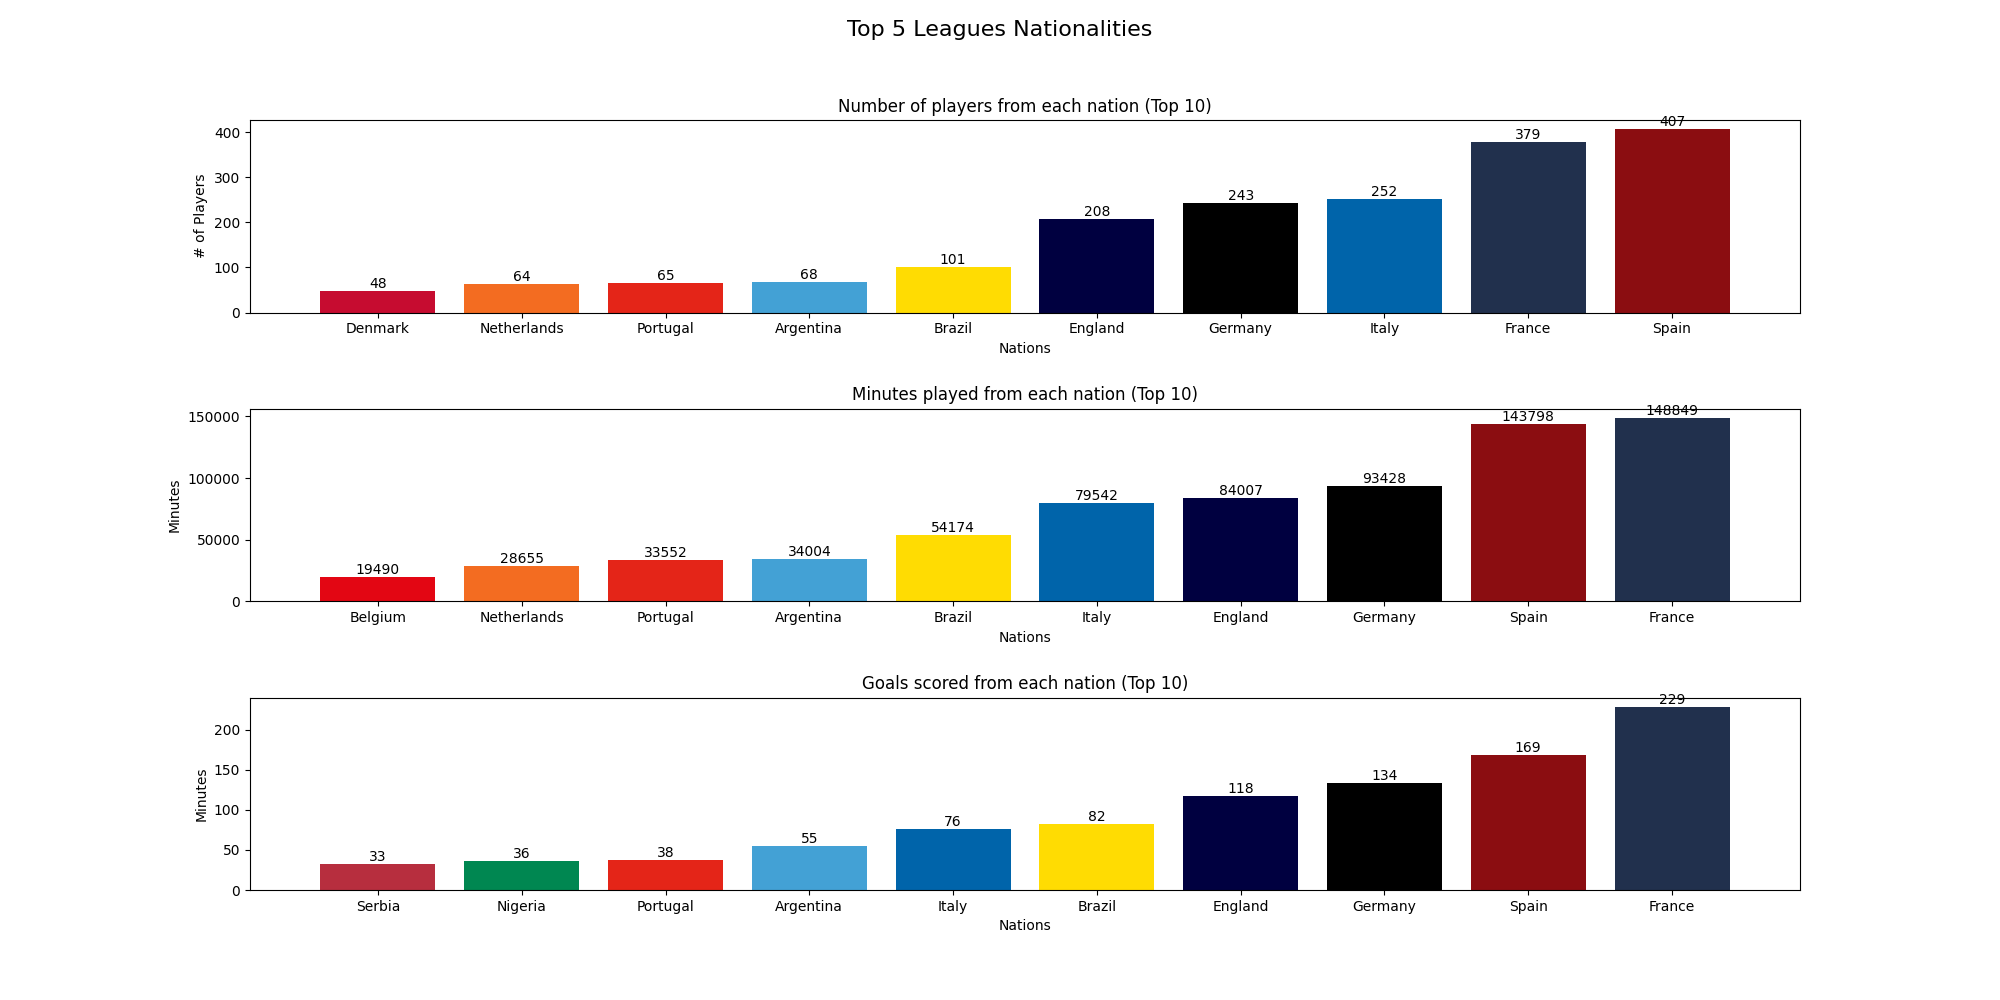
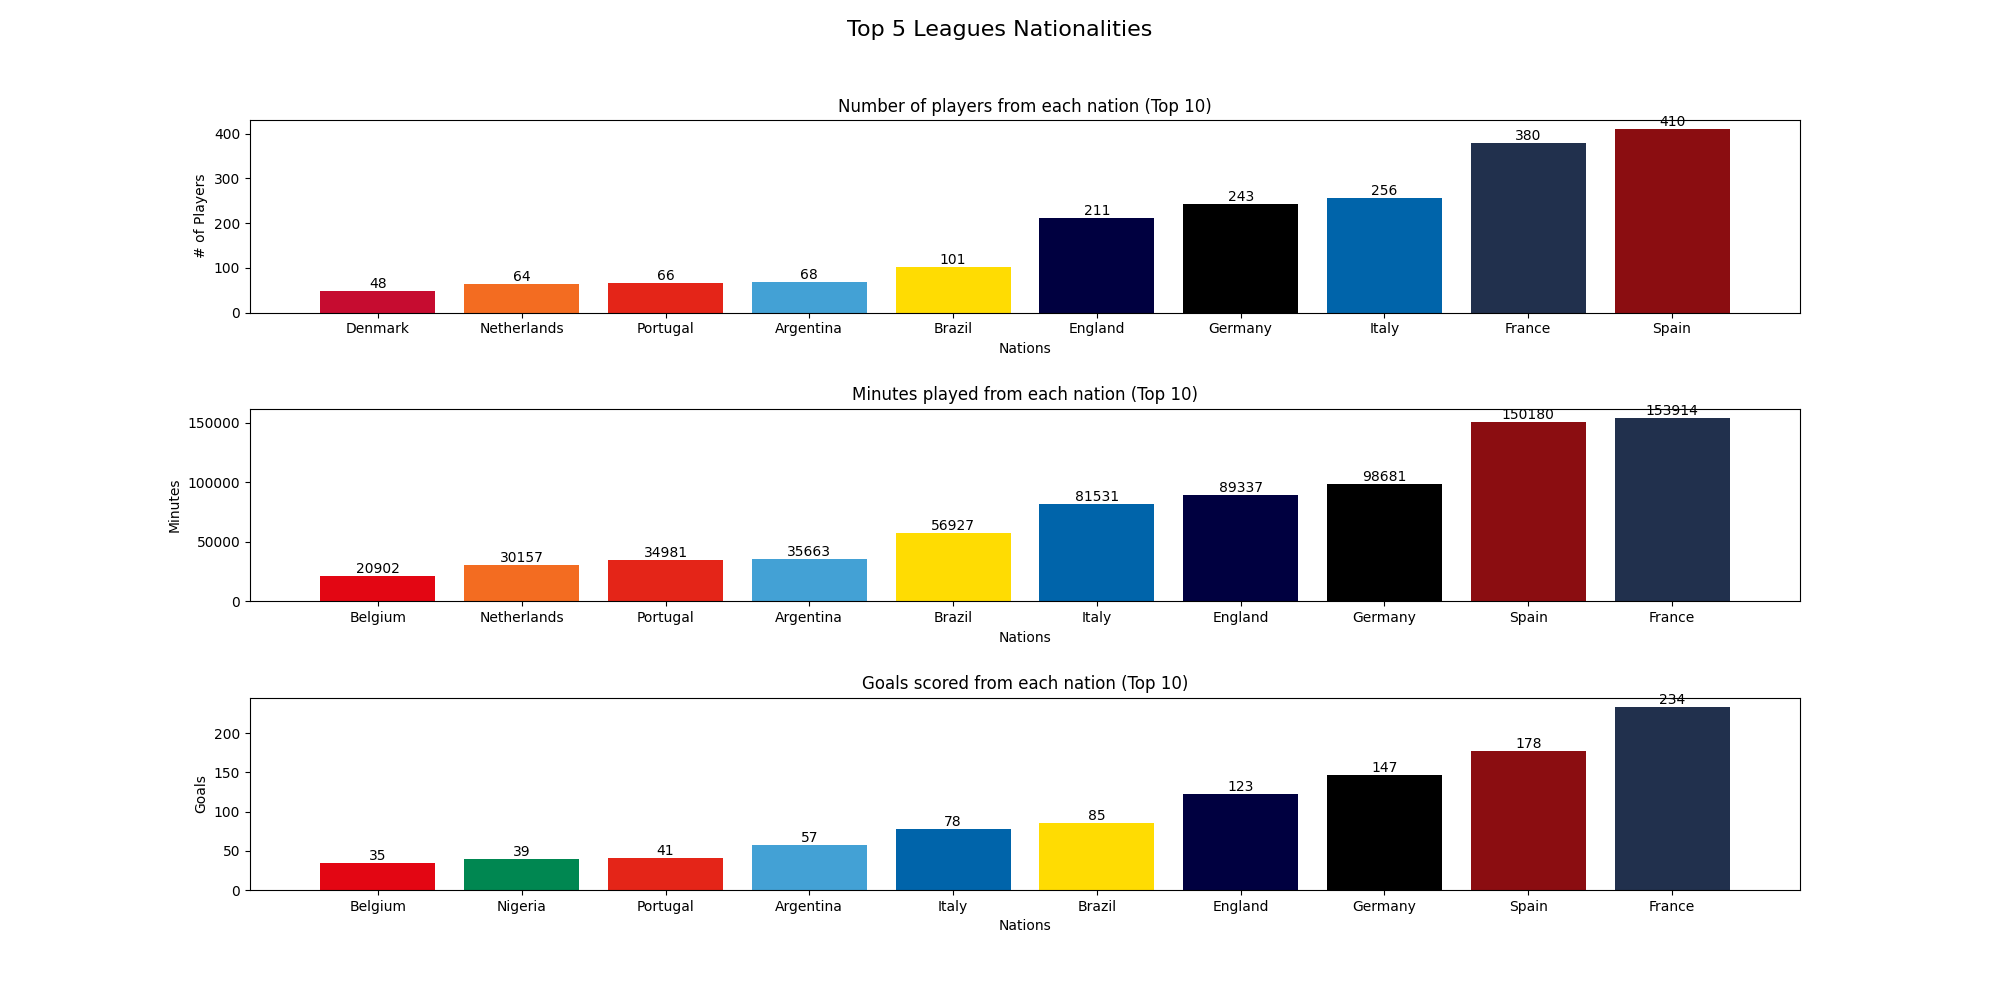
Fixed top 5 labels. New GW

diff --git a/nationalities.py b/nationalities.py
@@ -271,7 +271,7 @@ def nations_played(urls):
     ax2.bar_label(bars)
     ax2.set_title('Goals scored from each nation (Top 10)')
     ax2.set_xlabel('Nations')
-    ax2.set_ylabel('Minutes')
+    ax2.set_ylabel('Goals')
     
     fig.savefig(f'images/combined-number-nations.png')
     # plt.show()
